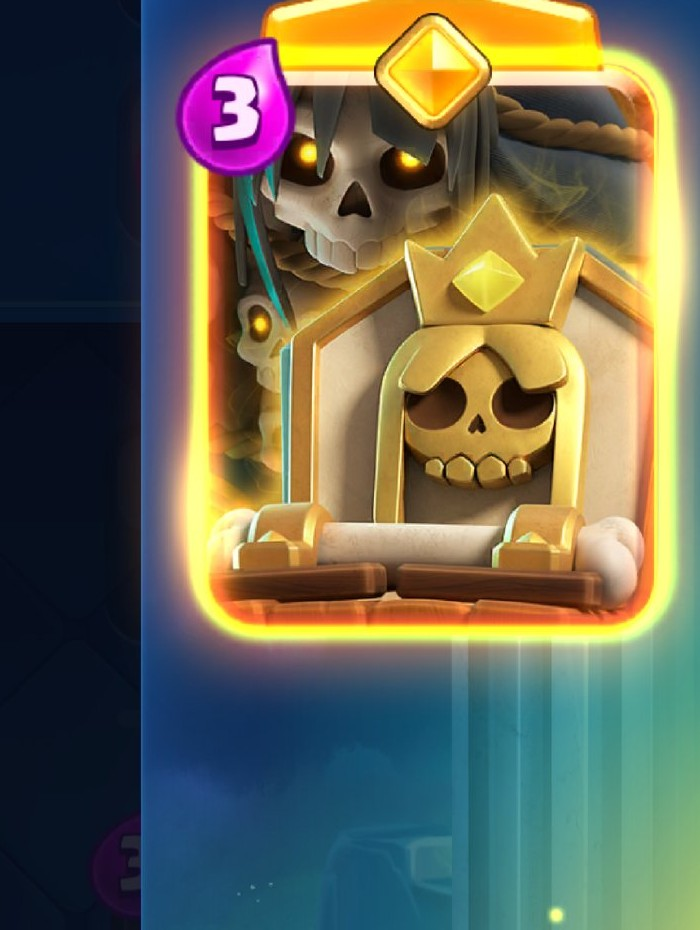
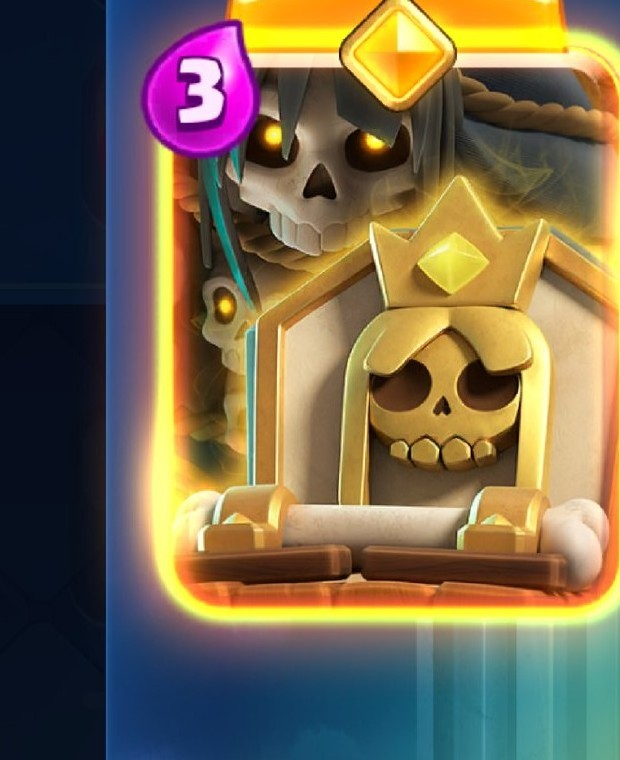
Tighten Princess and Tombstone slot cover crops

diff --git a/script.js b/script.js
@@ -76,8 +76,8 @@ const HERO_ART_OVERRIDES = {
     "assets/hero/bowler-hero-cover.png?v=20260517e"
   ],
   "Tombstone": [
-    "/assets/hero/tombstone-hero-cover.jpg?v=20260603b",
-    "assets/hero/tombstone-hero-cover.jpg?v=20260603b"
+    "/assets/hero/tombstone-hero-cover.jpg?v=20260603c",
+    "assets/hero/tombstone-hero-cover.jpg?v=20260603c"
   ]
 };
 
@@ -86,8 +86,8 @@ const EVO_ART_OVERRIDES = {
     "https://cdn.royaleapi.com/static/img/cards-150/minion-horde-ev1.png"
   ],
   "Princess": [
-    "/assets/evo-princess-cover.jpg?v=20260603b",
-    "assets/evo-princess-cover.jpg?v=20260603b"
+    "/assets/evo-princess-cover.jpg?v=20260603c",
+    "assets/evo-princess-cover.jpg?v=20260603c"
   ]
 };
 

diff --git a/api/_lib/deck.js b/api/_lib/deck.js
@@ -42,10 +42,10 @@ const CHAMPION_CARD_SLUGS = new Set([
 const EVO_FORCE_OFF_SLUGS = new Set(["the-log"]);
 const EVO_ICON_OVERRIDES = {
   "minion-horde": "https://cdn.royaleapi.com/static/img/cards-150/minion-horde-ev1.png",
-  "princess": "/assets/evo-princess-cover.jpg?v=20260603b"
+  "princess": "/assets/evo-princess-cover.jpg?v=20260603c"
 };
 const HERO_ICON_OVERRIDES = {
-  "tombstone": "/assets/hero/tombstone-hero-cover.jpg?v=20260603b"
+  "tombstone": "/assets/hero/tombstone-hero-cover.jpg?v=20260603c"
 };
 const EVO_ABILITY_IMPACT = {
   "barbarians": { cycles: 1, impact: ["tempo", "dps"] },
